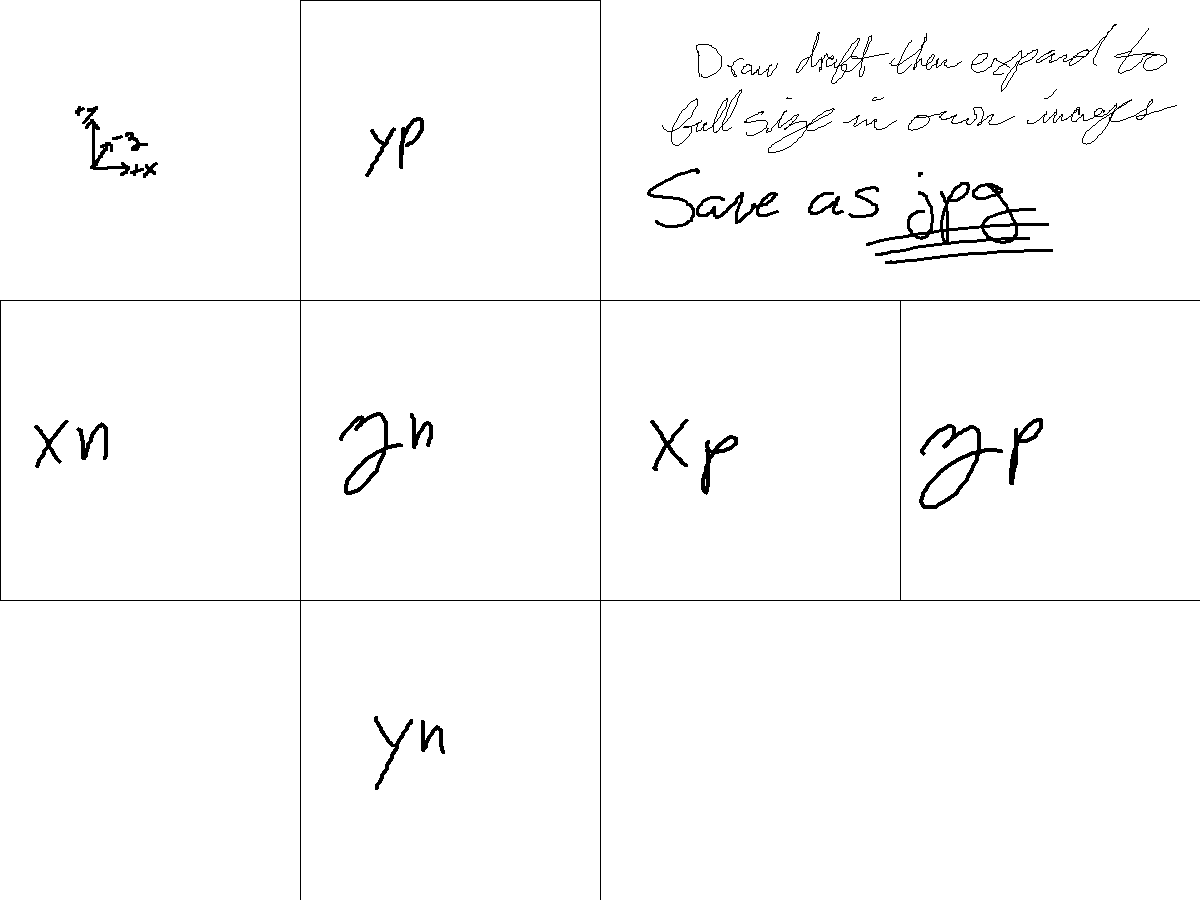
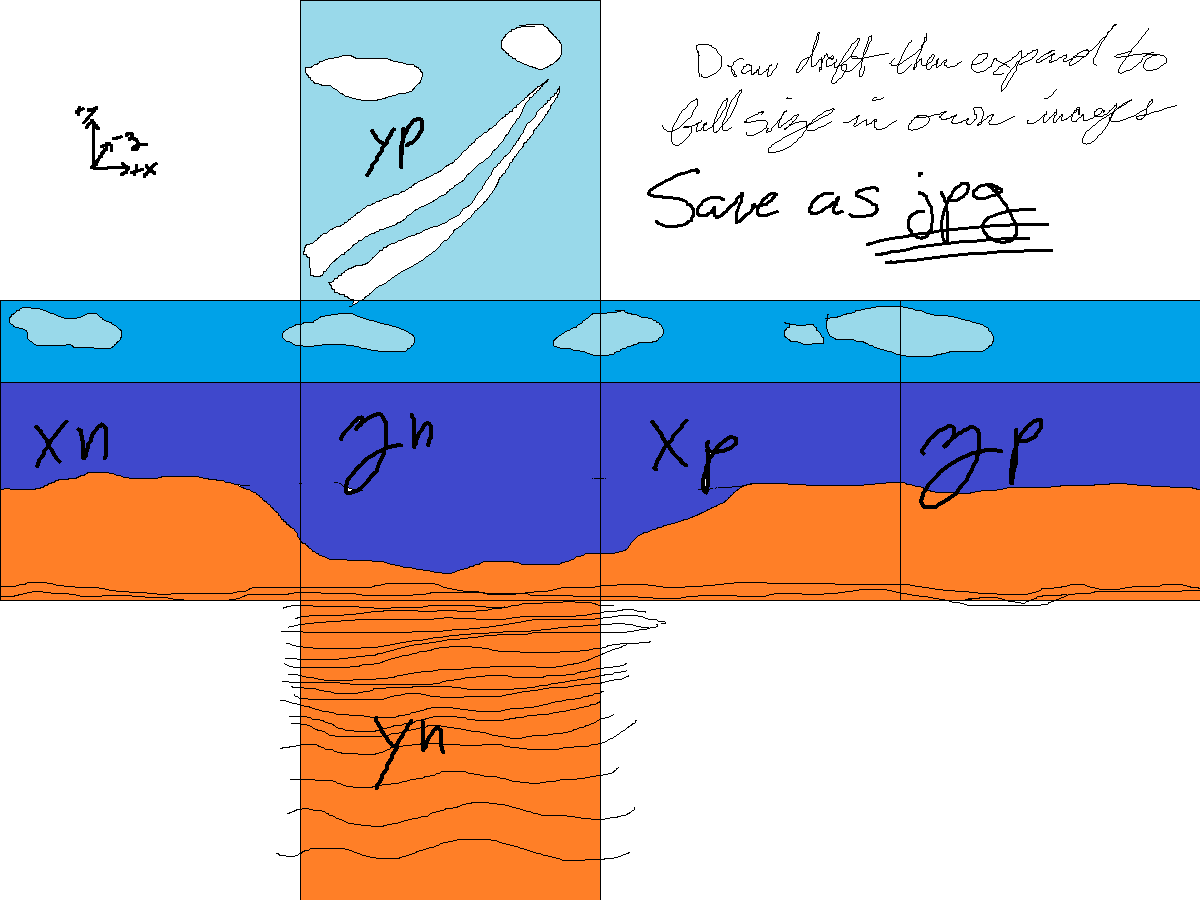
added first draft of new skybox and began updating JOIN/DSFR messages in ProtocolClient and GhostManager to allow for character selection. #TODO:will need more helper functions for getting necessary information for WSDS, DSFR, and createGhostAvatar

diff --git a/165/a2/ProtocolClient.java b/165/a2/ProtocolClient.java
@@ -63,19 +63,20 @@ public class ProtocolClient extends GameConnectionClient
 				message.getMatrix(ghostMatrix);
 				ghostID = message.getSenderID();
 				try
-				{	ghostManager.createGhostAvatar(ghostID, ghostVector, ghostMatrix, spot.startingScale);
+				{	ghostManager.createGhostAvatar(ghostID, ghostVector, ghostMatrix, message.getShape(), message.getTexture(), spot.startingScale);
+//					ghostManager.createGhostAvatar(ghostID, ghostVector, ghostMatrix, spot.startingScale);
 //System.out.println("This ghost was made by ID" + id+" in ProtocolClient DSFR at position " + ghostVector.toString());
 				}	catch (IOException e)
 				{	System.out.println("error creating ghost avatar");
 				}
 				break;
 			case CREATE:
-
 				message.getVector(ghostVector);
 				message.getMatrix(ghostMatrix);
 				ghostID = message.getSenderID();
 				try
-				{	ghostManager.createGhostAvatar(ghostID, ghostVector, ghostMatrix, spot.startingScale);
+				{	ghostManager.createGhostAvatar(ghostID, ghostVector, ghostMatrix, message.getShape(), message.getTexture(), spot.startingScale);
+//					ghostManager.createGhostAvatar(ghostID, ghostVector, ghostMatrix, spot.startingScale);
 //					ghostManager.turnGhostAvatar(ghostID, ghostMatrix);
 //System.out.println("This ghost was made by "+id+" in ProtocolClient CREATE at position " + ghostVector.toString());
 				}	catch (IOException e)
@@ -86,6 +87,7 @@ public class ProtocolClient extends GameConnectionClient
 				ghostID = message.getSenderID();
 				game.getPlayerPosition(ghostVector);
 				sendDetailsForMessage(ghostID, ghostVector);//game.getPlayerPosition());
+				//TODO: also needs to get the player's ObjShape and TextureImage name
 				break;
 			case MOVE:
 
@@ -146,13 +148,15 @@ public class ProtocolClient extends GameConnectionClient
 	// with the server.
 	// Message Format: (create,localId,x,y,z) where x, y, and z represent the position
 
-	public void sendCreateMessage(Vector3f position, Matrix4f facing)
+	public void sendCreateMessage(Vector3f position, Matrix4f facing, String shapeName, String textureName)
 	{	try 
 		{	
 			message.addItem(id);
 			message.addItem(Message.MessageType.CREATE);
 			message.addItem(position);
 			message.addItem(facing);
+			message.addShape(shapeName);
+			message.addTexture(textureName);
 
 			sendPacket(message);
 		} catch (IOException e) 

diff --git a/165/a2/MyGame.java b/165/a2/MyGame.java
@@ -53,7 +53,7 @@ public class MyGame extends VariableFrameRateGame
 	private ObjShape dolS, xAxis, yAxis, zAxis, terrS, pufferS;//, sphereS, torusS,  crystalS, cubeS;
 	private TextureImage doltx, hills, grass, pufferX;
 	private Light light1;//, spotlightR, spotlightG, spotlightB;
-	private int skybox;
+	private int skybox, seabox;
 
 	private GameObject raft;
 	private ObjShape raftS;
@@ -246,7 +246,8 @@ public class MyGame extends VariableFrameRateGame
 		light1.setLocation(new Vector3f(5.0f, 4.0f, 2.0f));
 		(engine.getSceneGraph()).addLight(light1);
 
-		//TODO:add 3 more nonambient lights to fit requirements
+//TODO:add 3 more nonambient lights to fit requirements
+		//"glowing" jellyfish/coral models?
 	}
 
 	@Override
@@ -275,12 +276,14 @@ public class MyGame extends VariableFrameRateGame
 
 	@Override
 	public void loadSkyBoxes(){
-		skybox = engine.getSceneGraph().loadCubeMap(spot.skyboxFile);
-		engine.getSceneGraph().setActiveSkyBoxTexture(skybox);
+		skybox = engine.getSceneGraph().loadCubeMap("lakeIslands");
+		seabox = engine.getSceneGraph().loadCubeMap("unda da sea");
+//		engine.getSceneGraph().setActiveSkyBoxTexture(skybox);
+		engine.getSceneGraph().setActiveSkyBoxTexture(seabox);
 		engine.getSceneGraph().setSkyBoxEnabled(true);
 
-		//TODO:underwater skybox that activates when the camera goes below the water line
-			//wants to see a skybox that isn't from the base code
+//TODO:underwater skybox that activates when the camera goes below the water line
+	//wants to see a skybox that isn't from the base code
 	}
 
 	@Override
@@ -371,7 +374,7 @@ public class MyGame extends VariableFrameRateGame
 		//for(int i = 1; i <= 5; i++)
 		//engine.getHUDmanager().addHUDElement("HUD stack test", new Vector3f(.2f*i, 1f-.2f*(i-1), .5f), 15,45*i);	
 				//test if deleting a middle one causes it to delete properly or crash the program
-		//TODO: basic GUI to fit requirements
+//TODO: basic GUI to fit requirements
 //------------------sound section----------------------
 		updateEar();
 		bubbles.play();

diff --git a/165/tage/networking/Message.java b/165/tage/networking/Message.java
@@ -16,7 +16,7 @@ public class Message implements Serializable{
     private UUID senderID, receiverID;
     private static Message message; //singleton to force reuse and lower memory overhead
     private boolean respondSuccessful;
-    private String text;
+    private String text, text2;
     private float num;
 
     private Vector3f v;
@@ -71,11 +71,18 @@ public void makeMessage(Vector3f vec, Matrix4f mat, UUID sender, UUID receiver, 
     public void addItem(UUID sender){ senderID = sender; }
 /** add a MessageType enum to the message */
     public void addItem(MessageType type){ this.type = type; }
-
+/** add an arbitrary float to the message */
     public void addItem(float f){ num = f; }
-    public void addItem(String s){ text = s; }
+/** add shape name to the message */
+    public void addShape(String s){ text = s; }
+/** retrieve a float from the message */
     public float getNum(){ return num; } 
-    public String getText(){ return text; }
+/** retrieve shape name the message */
+    public String getShape(){ return text; }
+/** add texture name string */
+    public void addTexture(String s){ text2 = s; }
+/** retrieve texture name */
+    public String getTexture(){ return text2; }
 
 /** add a receiver UUID to the message */
     public void addDestination(UUID receiver){ receiverID = receiver; }

diff --git a/165/a2/GhostManager.java b/165/a2/GhostManager.java
@@ -43,6 +43,19 @@ public class GhostManager
 		ghostAvatars.add(newAvatar);
 		
 	}
+	public void createGhostAvatar(UUID id, Vector3f position, Matrix4f rotation, String ghostShape, String ghostTexture, float scale) throws IOException{
+		System.out.println("adding ghost with ID --> " + id);
+		ObjShape s = game.getGhostShape();
+			//TODO: pull the ghosts shape from a list of shapes initialized in MyGame
+		TextureImage t = game.getGhostTexture();
+			//TODO: pull ghost texture from a list of textures initialized in MyGame
+		GhostAvatar newAvatar = new GhostAvatar(id, s, t, position);
+		Matrix4f initialScale = (new Matrix4f()).scaling(scale);
+		newAvatar.setLocalScale(initialScale);
+		newAvatar.setLocalRotation(rotation);
+		ghostAvatars.add(newAvatar);
+		
+	}
 	public void removeGhostAvatar(UUID id)
 	{	ghostAvatar = findAvatar(id);
 		if(ghostAvatar != null)

diff --git a/165/a2/spot.java b/165/a2/spot.java
@@ -30,9 +30,6 @@ public class spot {
         yellow = {1,1,0}, purple = {1,0,1}, teal = {0,1,1},
         white = {1,1,1}, black = {0,0,0};
 
-//---------------------------   Textures    ---------------------------
-    public static String skyboxFile = "lakeIslands", underwaterFile = "da sea";
-
 //---------------------------   Ghosts      ---------------------------
     public static float startingScale = 3f;
 
